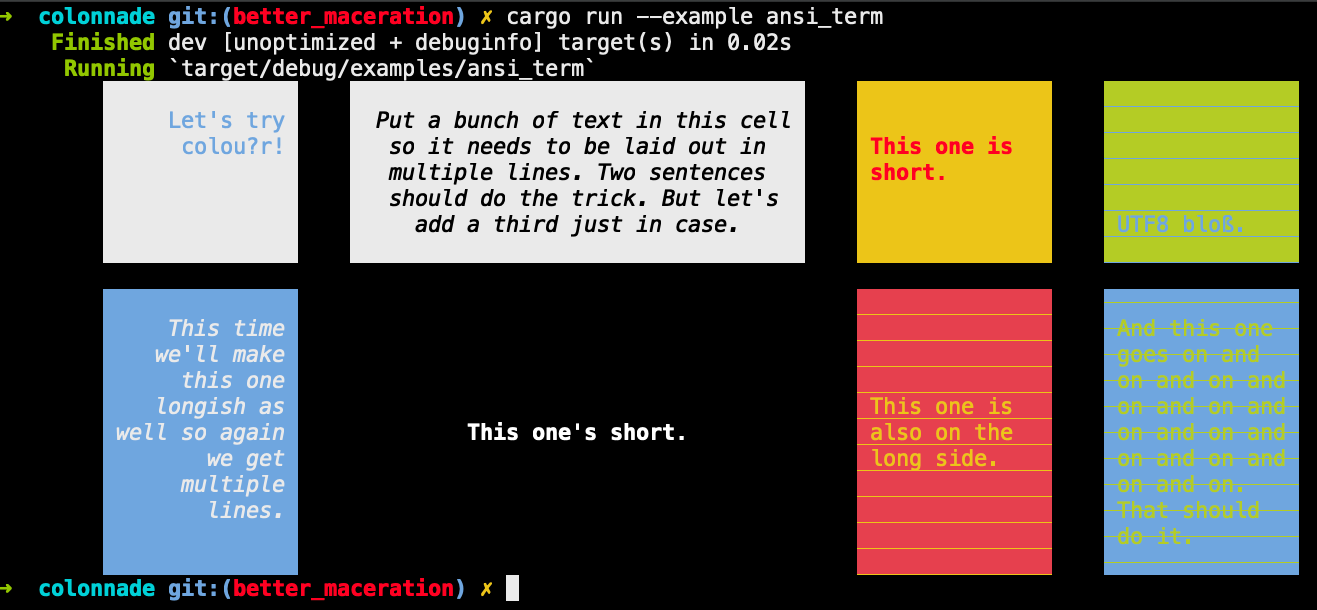
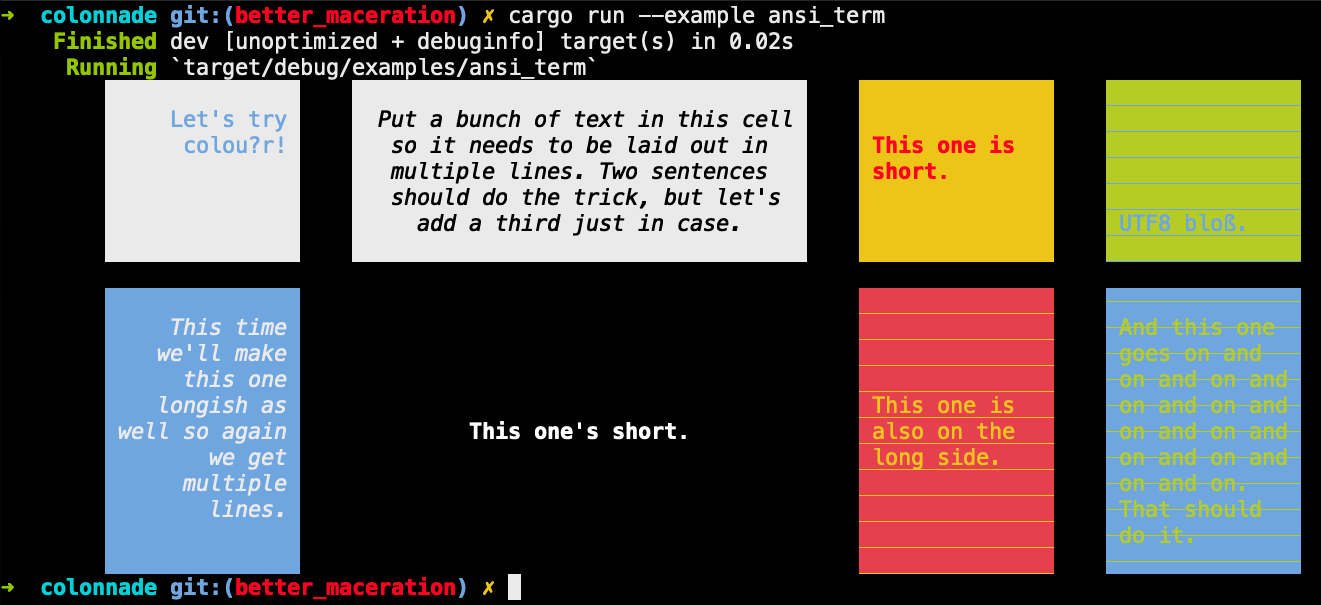
better signatures so we can work on a more diverse array of tabular data

diff --git a/src/lib.rs b/src/lib.rs
@@ -70,7 +70,7 @@ To control the layout you can specify minimum and maximum column widths and colu
 If the columns differ in priority, lower priority, higher priority number, columns will
 get wrapped first.
 */
-use std::fmt;
+use std::fmt::{self, Display};
 
 /// All the things that can go wrong when laying out tabular data.
 #[derive(Debug)]
@@ -725,7 +725,7 @@ impl Colonnade {
     }
     pub fn dump<T>(width: Option<usize>, table: &Vec<Vec<T>>) -> Result<(), ColonnadeError>
     where
-        T: ToString,
+        T: Display,
     {
         Colonnade::new(table[0].len(), width.unwrap_or(80))
             .and_then(|mut colonnade| colonnade.tabulate(table))
@@ -761,14 +761,16 @@ impl Colonnade {
     /// let lines = colonnade.tabulate(&data)?;
     /// # Ok(()) }
     /// ```
-    pub fn tabulate<T>(&mut self, table: &Vec<Vec<T>>) -> Result<Vec<String>, ColonnadeError>
+    pub fn tabulate<T, U, V, W, X>(&mut self, table: T) -> Result<Vec<String>, ColonnadeError>
     where
-        T: ToString,
+        T: IntoIterator<Item = U, IntoIter = V>,
+        U: IntoIterator<Item = W, IntoIter = X>,
+        V: Iterator<Item = U>,
+        W: ToString,
+        X: Iterator<Item = W>,
     {
-        match self.macerate(table) {
-            Ok(buffer) => Ok(Colonnade::reconstitute_rows(buffer)),
-            Err(e) => Err(e),
-        }
+        self.macerate(table)
+            .and_then(|buffer| Ok(Colonnade::reconstitute_rows(buffer)))
     }
     /// Chew up the text into bits suitable for piecemeal layout.
     ///
@@ -806,21 +808,21 @@ impl Colonnade {
     ///     ],
     ///     vec!["", "Two or more rows of columns makes a table.", ""],
     /// ];
-    /// let mut colonnade = Colonnade::new(3, 80).unwrap();
+    /// let mut colonnade = Colonnade::new(3, 80)?;
     ///
     /// // configure the table a bit
-    /// colonnade.spaces_between_rows(1).left_margin(4).unwrap().fixed_width(15).unwrap();
+    /// colonnade.spaces_between_rows(1).left_margin(4)?.fixed_width(15)?;
     /// colonnade.columns[0].alignment(Alignment::Right).left_margin(8);
     /// colonnade.columns[1].alignment(Alignment::Center).clear_limits();
     /// // if the text is in colored cells, you will probably want some padding
-    /// colonnade.padding(1).unwrap();
+    /// colonnade.padding(1)?;
     /// ///
     /// // now print out the table
     /// let mut t = term::stdout().unwrap();
-    /// for row in colonnade.macerate(&text).unwrap() {
+    /// for row in colonnade.macerate(&text)? {
     ///     for line in row {
     ///         for (i, (margin, text)) in line.iter().enumerate() {
-    ///             write!(t, "{}", margin).unwrap();
+    ///             write!(t, "{}", margin)?;
     ///             let background_color = if i % 2 == 0 {
     ///                 term::color::WHITE
     ///             } else {
@@ -831,47 +833,57 @@ impl Colonnade {
     ///                 2 => term::color::RED,
     ///                 _ => term::color::BLUE,
     ///             };
-    ///             t.bg(background_color).unwrap();
-    ///             t.fg(foreground_color).unwrap();
-    ///             write!(t, "{}", text).unwrap();
-    ///             t.reset().unwrap();
+    ///             t.bg(background_color)?;
+    ///             t.fg(foreground_color)?;
+    ///             write!(t, "{}", text)?;
+    ///             t.reset()?;
     ///         }
     ///         println!();
     ///     }
     /// }
     /// # Ok(()) }
     /// ```
-    pub fn macerate<T>(
+    pub fn macerate<T, U, V, W, X>(
         &mut self,
-        table: &Vec<Vec<T>>,
+        table: T,
     ) -> Result<Vec<Vec<Vec<(String, String)>>>, ColonnadeError>
     where
-        T: ToString,
+        T: IntoIterator<Item = U, IntoIter = V>,
+        U: IntoIterator<Item = W, IntoIter = X>,
+        V: Iterator<Item = U>,
+        W: ToString,
+        X: Iterator<Item = W>,
     {
-        if !self.adjusted {
-            match self.lay_out(table) {
-                Err(e) => return Err(e),
-                Ok(()) => (),
+        self.lay_out(table).and_then(|owned_table| {
+            let ref_table = Colonnade::ref_table(&owned_table);
+            let table = &ref_table;
+            let mut buffer = vec![];
+            let mut p = self.maximum_vertical_padding();
+            if p == 0 {
+                p = 1;
             }
-        }
-        let owned_table = Colonnade::own_table(table);
-        let ref_table = Colonnade::ref_table(&owned_table);
-        let table = &ref_table;
-        let mut buffer = vec![];
-        let mut p = self.maximum_vertical_padding();
-        if p == 0 {
-            p = 1;
-        }
-        for (i, row) in table.iter().enumerate() {
-            self.add_row(&mut buffer, row, i == table.len() - 1, p);
-        }
-        Ok(buffer)
+            for (i, row) in table.iter().enumerate() {
+                self.add_row(&mut buffer, row, i == table.len() - 1, p);
+            }
+            Ok(buffer)
+        })
     }
     // utility function to convert a T table to a String table
-    fn own_table<T: ToString>(table: &Vec<Vec<T>>) -> Vec<Vec<String>> {
+    fn own_table<T, U, V, W, X>(table: T) -> Vec<Vec<String>>
+    where
+        T: IntoIterator<Item = U, IntoIter = V>,
+        U: IntoIterator<Item = W, IntoIter = X>,
+        V: Iterator<Item = U>,
+        W: ToString,
+        X: Iterator<Item = W>,
+    {
         table
-            .iter()
-            .map(|v| v.iter().map(|t| t.to_string()).collect::<Vec<String>>())
+            .into_iter()
+            .map(|v| {
+                v.into_iter()
+                    .map(|t| t.to_string())
+                    .collect::<Vec<String>>()
+            })
             .collect::<Vec<Vec<String>>>()
     }
     // utility function to convert a String table to a &str table
@@ -1092,42 +1104,27 @@ impl Colonnade {
         }
         buffer.push(current_lines);
     }
-    /// Determine column widths given data.
-    ///
-    /// Normally you do not need to call this method because it is called when you [`tabulate`](#method.tabulate)
-    /// the first batch of data. However, this initial layout will then be used for every subsequent batch
-    /// of data regardless of its size. If you want to re-flow the table to better fit the new data, you acn
-    /// call `layout`.
-    ///
-    /// # Arguments
-    ///
-    /// * `table` - The data to display.
-    ///
-    /// # Errors
-    ///
-    /// * `ColonnadeError::InconsistentColumns` - The number of columns in some row of `table` does not match the spec.
-    ///
-    /// # Example
-    ///
-    /// ```rust
-    /// # extern crate colonnade;
-    /// # use colonnade::Colonnade;
-    /// # use std::error::Error;
-    /// # fn demo() -> Result<(), Box<dyn Error>> {
-    /// let mut colonnade = Colonnade::new(4, 100)?;
-    /// let data = vec![vec!["some", "words", "for", "example"]];
-    /// let lines = colonnade.tabulate(&data)?;
-    /// // ... later
-    /// let data = vec![vec!["a very different, wider", "set of", "words that won't fit comfortably in the old layout"]];
-    /// // reflow table
-    /// colonnade.lay_out(&data)?;
-    /// let lines = colonnade.tabulate(&data)?;
-    /// # Ok(()) }
-    /// ```
-    pub fn lay_out<T>(&mut self, table: &Vec<Vec<T>>) -> Result<(), ColonnadeError>
+    pub fn reset(&mut self) {
+        self.adjusted = false;
+        for i in 0..self.len() {
+            self.columns[i].width = 0;
+        }
+    }
+    // determine the optimal widths of the columns given the data and the specified constraints
+    fn lay_out<T, U, V, W, X>(&mut self, table: T) -> Result<Vec<Vec<String>>, ColonnadeError>
     where
-        T: ToString,
+        T: IntoIterator<Item = U, IntoIter = V>,
+        U: IntoIterator<Item = W, IntoIter = X>,
+        V: Iterator<Item = U>,
+        W: ToString,
+        X: Iterator<Item = W>,
     {
+        let owned_table = Colonnade::own_table(table);
+        if self.adjusted {
+            return Ok(owned_table);
+        }
+        let ref_table = Colonnade::ref_table(&owned_table);
+        let table = &ref_table;
         // validate table
         for i in 0..table.len() {
             let row = &table[i];
@@ -1142,9 +1139,6 @@ impl Colonnade {
         if !self.sufficient_space() {
             return Err(ColonnadeError::InsufficientSpace);
         }
-        let owned_table = Colonnade::own_table(table);
-        let ref_table = Colonnade::ref_table(&owned_table);
-        let table = &ref_table;
         // first try to do it all without splitting
         for i in 0..table.len() {
             for c in 0..self.len() {
@@ -1158,7 +1152,7 @@ impl Colonnade {
         }
         if self.required_width() <= self.width {
             self.adjusted = true;
-            return Ok(());
+            return Ok(owned_table);
         }
         let mut modified_columns: Vec<usize> = Vec::with_capacity(self.len());
         // try shrinking columns to their longest word by order of priority
@@ -1275,7 +1269,7 @@ impl Colonnade {
             }
         }
         self.adjusted = true;
-        Ok(())
+        Ok(owned_table)
     }
     /// Specify a number of blank lines to insert between table rows.
     ///

diff --git a/examples/ansi_term.rs b/examples/ansi_term.rs
@@ -10,7 +10,7 @@ fn main() {
     let text = vec![
         vec![
             "Let's try colou?r!",
-            "Put a bunch of text in this cell so it needs to be laid out in multiple lines. Two sentences should do the trick. But let's add a third just in case.",
+            "Put a bunch of text in this cell so it needs to be laid out in multiple lines. Two sentences should do the trick, but let's add a third just in case.",
             "This one is short.",
             "UTF8 bloß.",
         ],
